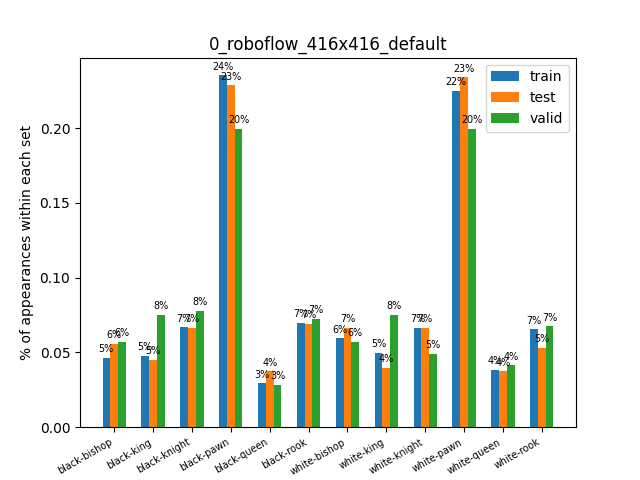
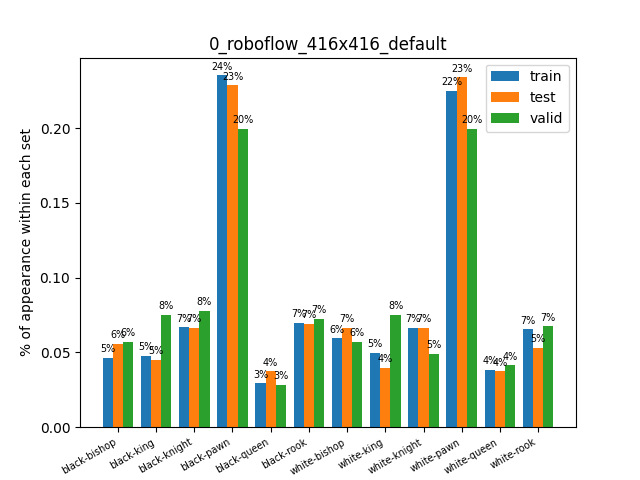
Label distribution for data subfolder

Changed region(s): [[0.0938, 0.125, 0.875, 1.0], [0.0312, 0.25, 0.0625, 0.75], [0.5938, 0.625, 0.625, 0.6562]]

diff --git a/ObjectDetection/utils/labelDistribution.py b/ObjectDetection/utils/labelDistribution.py
@@ -6,12 +6,12 @@ import matplotlib.pyplot as plt
 
 from tqdm import tqdm
 
-path_data = 'data'
+_path_data = 'data'
 
-typeSet = ['train', 'test', 'valid']
+_typeSet = ['train', 'test', 'valid']
 
-cls = ['black-bishop', 'black-king', 'black-knight', 'black-pawn', 'black-queen', 'black-rook',
-       'white-bishop', 'white-king', 'white-knight', 'white-pawn', 'white-queen', 'white-rook']
+_cls = ['black-bishop', 'black-king', 'black-knight', 'black-pawn', 'black-queen', 'black-rook',
+        'white-bishop', 'white-king', 'white-knight', 'white-pawn', 'white-queen', 'white-rook']
 
 # Matplotlib utils
 def autolabel(ax, rects, offset, percent=False):
@@ -22,12 +22,45 @@ def autolabel(ax, rects, offset, percent=False):
                 fontsize='x-small',
                 ha='center', va='bottom')
 
+def save_bars_plot(data, legends, ylabel, path, title, percent=False):
+    ind = np.arange(len(_cls))
+    width = 0.8 / len(legends)
+
+    fig, ax = plt.subplots()
+    ax.set_ylabel(ylabel)
+    ax.set_xticks(ind + (0.8 - width) / 2)
+    ax.set_xticklabels(_cls)
+    plt.setp(ax.get_xticklabels(), rotation=30, horizontalalignment='right', fontsize='x-small')
+
+    if percent:
+        counts = [[x / data[label]['tot_boxes'] for x in data[label]['count']] for label in legends]
+    else:
+        counts = [data[label]['count'] for label in legends]
+
+    offset_text = 0.01 * max([max(counts[i]) for i in range(len(legends))])
+
+    rects = []
+    for i in range(len(legends)):
+        rect = ax.bar(
+                ind + width * i,
+                counts[i],
+                width=width)
+        autolabel(ax, rect, offset_text, percent=percent)
+        rects.append(rect)
+
+    ax.legend(rects, legends)
+    plt.title(path[path.find(_path_data)+len(_path_data)+1:])
+
+    fig.savefig(f'{path}/{title}.png')
+    plt.close(fig)
+    print(f'  {path}/{title}.png saved...')
+
 def create_data_counter(path):
     data_counter = {}
     data_counter['path_to_data'] = path
     data_counter['nb_files'] = 0
     data_counter['tot_boxes'] = 0
-    data_counter['count'] = [0 for i in range(len(cls))]
+    data_counter['count'] = [0 for i in range(len(_cls))]
     return data_counter
 
 def count_labels(path_labels):
@@ -46,12 +79,23 @@ def count_labels(path_labels):
 
     return data_counter
 
+def merge_data_folder(data_folder, path):
+    merged_counter = create_data_counter(path)
+
+    for subdir, counter in data_folder.items():
+        merged_counter['nb_files'] += counter['nb_files']
+        merged_counter['tot_boxes'] += counter['tot_boxes']
+        for i in range(len(_cls)):
+            merged_counter['count'][i] += counter['count'][i]
+
+    return merged_counter
+
 def analyse_folder(path):
     data_folder = {}
 
     plt_labels=[]
 
-    for subdirectory in typeSet:
+    for subdirectory in _typeSet:
         path_subdirectory = os.path.join(path_directory, subdirectory)
 
         # Ignore if the subdirectory doesn't exists
@@ -70,68 +114,30 @@ def analyse_folder(path):
         plt_labels.append(subdirectory)
 
     if len(plt_labels) > 0:
-        ind = np.arange(len(cls))
+        # Percentage figure
+        save_bars_plot(data=data_folder, legends=plt_labels,
+                       ylabel='% of appearance within each set',
+                       path=path, title='labels_distribution_percent',
+                       percent=True)
 
-        # PERCENTAGE FIGURE
-        fig, ax = plt.subplots()
-        ax.set_ylabel('% of appearances within each set')
-        ax.set_xticks(ind + 0.2)
-        ax.set_xticklabels(cls)
-        plt.setp(ax.get_xticklabels(), rotation=30, horizontalalignment='right',fontsize='x-small')
-
-        counts_percent = [[x / data_folder[label]['tot_boxes'] for x in data_folder[label]['count']] for label in plt_labels]
-        offset_text = 0.01 * max([max(counts_percent[i]) for i in range(len(plt_labels))])
-
-        rects_percent = []
-        for i in range(len(plt_labels)):
-            rect = ax.bar(
-                    ind + 0.2 * i,
-                    counts_percent[i],
-                    width=0.2)
-            autolabel(ax, rect, offset_text, percent=True)
-            rects_percent.append(rect)
-
-        ax.legend(rects_percent, plt_labels)
-        plt.title(path[path.find(path_data)+len(path_data)+1:])
-
-        fig.savefig(f'{path}/labels_distribution_percent.png')
-        plt.close(fig)
-        print(f'  {path}/labels_distribution_percent.png saved...')
-
-        # NUMBER FIGURE
-        fig, ax1 = plt.subplots()
-        ax1.set_ylabel('# of appearances within each set')
-        ax1.set_xticks(ind + 0.2)
-        ax1.set_xticklabels(cls)
-        plt.setp(ax1.get_xticklabels(), rotation=30, horizontalalignment='right',fontsize='x-small')
-
-        offset_text = 0.01 * max([max(data_folder[label]['count']) for label in plt_labels])
-
-        rects = []
-        for i, subdirectory in enumerate(plt_labels):
-            rect = ax1.bar(
-                    ind + 0.2 * i,
-                    data_folder[subdirectory]['count'],
-                    width=0.2)
-            autolabel(ax1, rect, offset_text)
-            rects.append(rect)
-
-        ax1.legend(rects, plt_labels)
-        plt.title(path[path.find(path_data)+len(path_data)+1:])
-
-        fig.savefig(f'{path}/labels_distribution.png')
-        plt.close(fig)
-        print(f'  {path}/labels_distribution.png saved...')
+        # Number figure
+        save_bars_plot(data=data_folder, legends=plt_labels,
+                       ylabel='# of appearances within each set',
+                       path=path, title='labels_distribution',
+                       percent=False)
 
     return data_folder
 
 if __name__ == '__main__':
-    if not os.path.exists(path_data):
-        print(f'The path to the data "{path_data}" doesn\'t exists...')
+    if not os.path.exists(_path_data):
+        print(f'The path to the data "{_path_data}" doesn\'t exists...')
         exit()
 
-    for directory in os.listdir(path_data):
-        path_directory = os.path.join(path_data, directory)
+    data_all = {}
+    plt_directories = []
+
+    for directory in os.listdir(_path_data):
+        path_directory = os.path.join(_path_data, directory)
 
         # Ignore if this is not a folder
         if not os.path.isdir(path_directory):
@@ -139,6 +145,25 @@ if __name__ == '__main__':
 
         print(f'Directory {path_directory}...')
 
-        data_directory = analyse_folder(path_directory)
+        data_folder = analyse_folder(path_directory)
+        if len(data_folder) > 0:
+            data_all[directory] = merge_data_folder(data_folder, path_directory)
+            plt_directories.append(directory)
 
         print(f'Directory {path_directory}... Done\n')
+
+    print('Saving global data...')
+
+    # Percentage figure
+    save_bars_plot(data=data_all, legends=plt_directories,
+                   ylabel='% of appearance within each directories',
+                   path=_path_data, title='labels_distribution_percent',
+                   percent=True)
+
+    # Number figure
+    save_bars_plot(data=data_all, legends=plt_directories,
+                   ylabel='# of appearances within each directories',
+                   path=_path_data, title='labels_distribution',
+                   percent=False)
+
+    print('Done')
